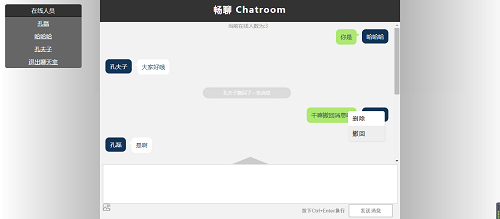
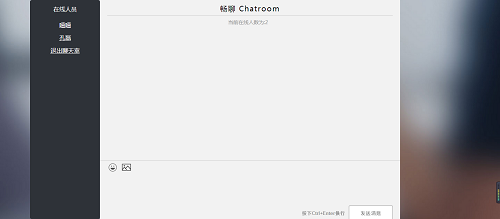
chat change

diff --git a/public/chatroom.css b/public/chatroom.css
@@ -2,7 +2,8 @@
 html {width:100%;height:100%;}
 body {
 	width:100%;height:100%;letter-spacing: -0.5em;overflow: hidden;font-family: '微软雅黑';background-color: #333;
-	background-image: linear-gradient(90deg,#FFF,#555,#FFF);;
+	background: url(/image/background.jpg) no-repeat 50%;
+    background-size: cover;
 }
 @media all and (max-width:768px) {
 	.userList{display:none!important;}
@@ -12,44 +13,41 @@ body {
 	#header p{display: none!important;}
 }
 
+#header{
+	height: 50px !important;
+    background-color: #F2F2F2 !important;
+    color: #000 !important;
+}
+#header>h2{
+	font-size: 20px;
+    letter-spacing: 2px;
+    margin-top: 10px;
+    border-bottom: 1px solid #ccc;
+    margin: 5px 20px;
+    padding: 5px;
+    font-weight: normal;
+}
 .userList {
 	position: absolute;
 	letter-spacing: 0;
-	width: 18%;
-	max-height:60%;
-	display: block;
-	left:1%;
-	top:2%;
-	overflow: hidden;
+	width: 14%;
+	height:100%;
+	left:6%;
+	background: #2e3238;
+	border-radius: 5px;
+	z-index: -1;
 }
-.userList img{
-	width:15%;
-	height:32px;
-	vertical-align: top;
-	transition:all 0.5s 0.5s;
-}
+
 .userList .openMenuImg{
 	transform:rotateY(180deg);
 	transition:all 0.5s;
 }
 
 .userList .exitChatRoom{
-	display: inline-block;
-	position: relative;
-	z-index: 1;
-	height:32px;
-	border-top: 1px #000 solid;
-	border-bottom: 1px #000 solid;
-	width:85%;
-	text-align: center;
-	line-height: 32px;
-	background-color: #333;
-	color:#FFF;
-	z-index: 1;
-	border-radius: 5px 5px 0 0;
-	/*transform:rotateY(180deg);*/
-	opacity: 1;
-	transition:all 0.5s 0.5s;
+	height:50px;
+    line-height: 50px;
+    color: #FFF;
+    text-align: center;
 }
 .userList .openMenuDiv{
 	transform:rotateY(0);
@@ -58,7 +56,7 @@ body {
 }
 .userList .online_people{
 	position: relative;
-	width:85%;
+	width:100%;
 	/*margin-left:15%;*/
 	list-style: none;
 	height:auto;
@@ -78,7 +76,6 @@ body {
 	width:100%;
 	text-align: center;
 	color:#FFF;
-	background-color: #666;
 }
 .userList .online_people li:last-child{
 	border-bottom: 0;
@@ -251,7 +248,7 @@ section>span {
 	background: #fff;
 	border-radius: 5px;
     box-shadow: 2px 2px 3px 0 rgba(117,124,129,.12);
-	opacity:0;
+	display:none;
 	z-index:999;
 }
 .pop_tip{
@@ -321,8 +318,8 @@ section>span {
 	letter-spacing: 0;
 	width:60%;
 	margin-left:20%;
-	display: inline-block;
-	height:25%;
+	height:28%;
+	border-top: 1px solid #ccc;
 	position: relative;
 }
 .input_text .emoji {
@@ -335,6 +332,17 @@ section>span {
 	border:1px #999 solid;
 	border-bottom:none;
 	transition:top 0.8s;
+}
+.input_text .emojis {
+	display: inline-block;
+	width: 30px;
+    height: 30px;
+    margin: 3px 10px 0 20px;
+    background: url(/image/icon@1x.png) no-repeat;
+    background-position: -404px -398px;
+    -webkit-background-size: 487px 462px;
+    background-size: 487px 462px;
+    cursor: pointer;
 }
 .input_text .emoji .emoji_package {
 	width:100%;
@@ -367,17 +375,18 @@ section>span {
 textarea {
 	position: absolute;
 	resize:none;
-	width:96%;
-	left:1%;
-	padding:1%;
-	height:60%;
+	width:98%;
+	text-indent:4%;
+	min-height:200px;
 	font-size: 18px;
 	line-height: 20px;
 	color:#34495E;
-	border:1px #ccc solid;
+	background: transparent;
+	border:none;
+	outline: none;
 }
 textarea:focus {
-	border: rgba(0,175,250,.6) 1px solid;
+	border: none !important;
 }
 #sendMsg {
 	position: absolute;
@@ -407,13 +416,13 @@ textarea:focus {
 
 #sendImg {
     position: absolute;
-    top: 72%;
-    left: 1%;
+    top: 5px;
     display: inline-block;
     border-radius: 4px;
     overflow: hidden;
     color: #1E88C7;
     text-decoration: none;
+    z-index:999;
 }
 #sendImg input {
     position: absolute;
@@ -424,8 +433,8 @@ textarea:focus {
 }
 
 #sendImg img {
-	height:20px;
-	width:20px;
+	height:25px;
+	width:25px;
 }
 
 .chat_window img {

diff --git a/server.js b/server.js
@@ -7,7 +7,7 @@ var fs = require('fs');
 var mongoose = require('mongoose');
 var dbConnection = 'mongodb://localhost/user';
 mongoose.connect(dbConnection);
-var port = process.env.PORT || 8989;
+var port = process.env.PORT || 8080;
 var app = express();
 var server = http.createServer(app);
 var io = require('socket.io').listen(server);

diff --git a/README.md b/README.md
@@ -18,3 +18,5 @@ ejs模板渲染，mongodb存储用户基本信息，socket.io通信模块
 ### 预览一下
  ![注册](https://github.com/dannisi/chatroom/blob/master/screenshots/register.png)
 
+ ![聊天室](https://github.com/dannisi/chatroom/blob/master/screenshots/chat.png)
+
